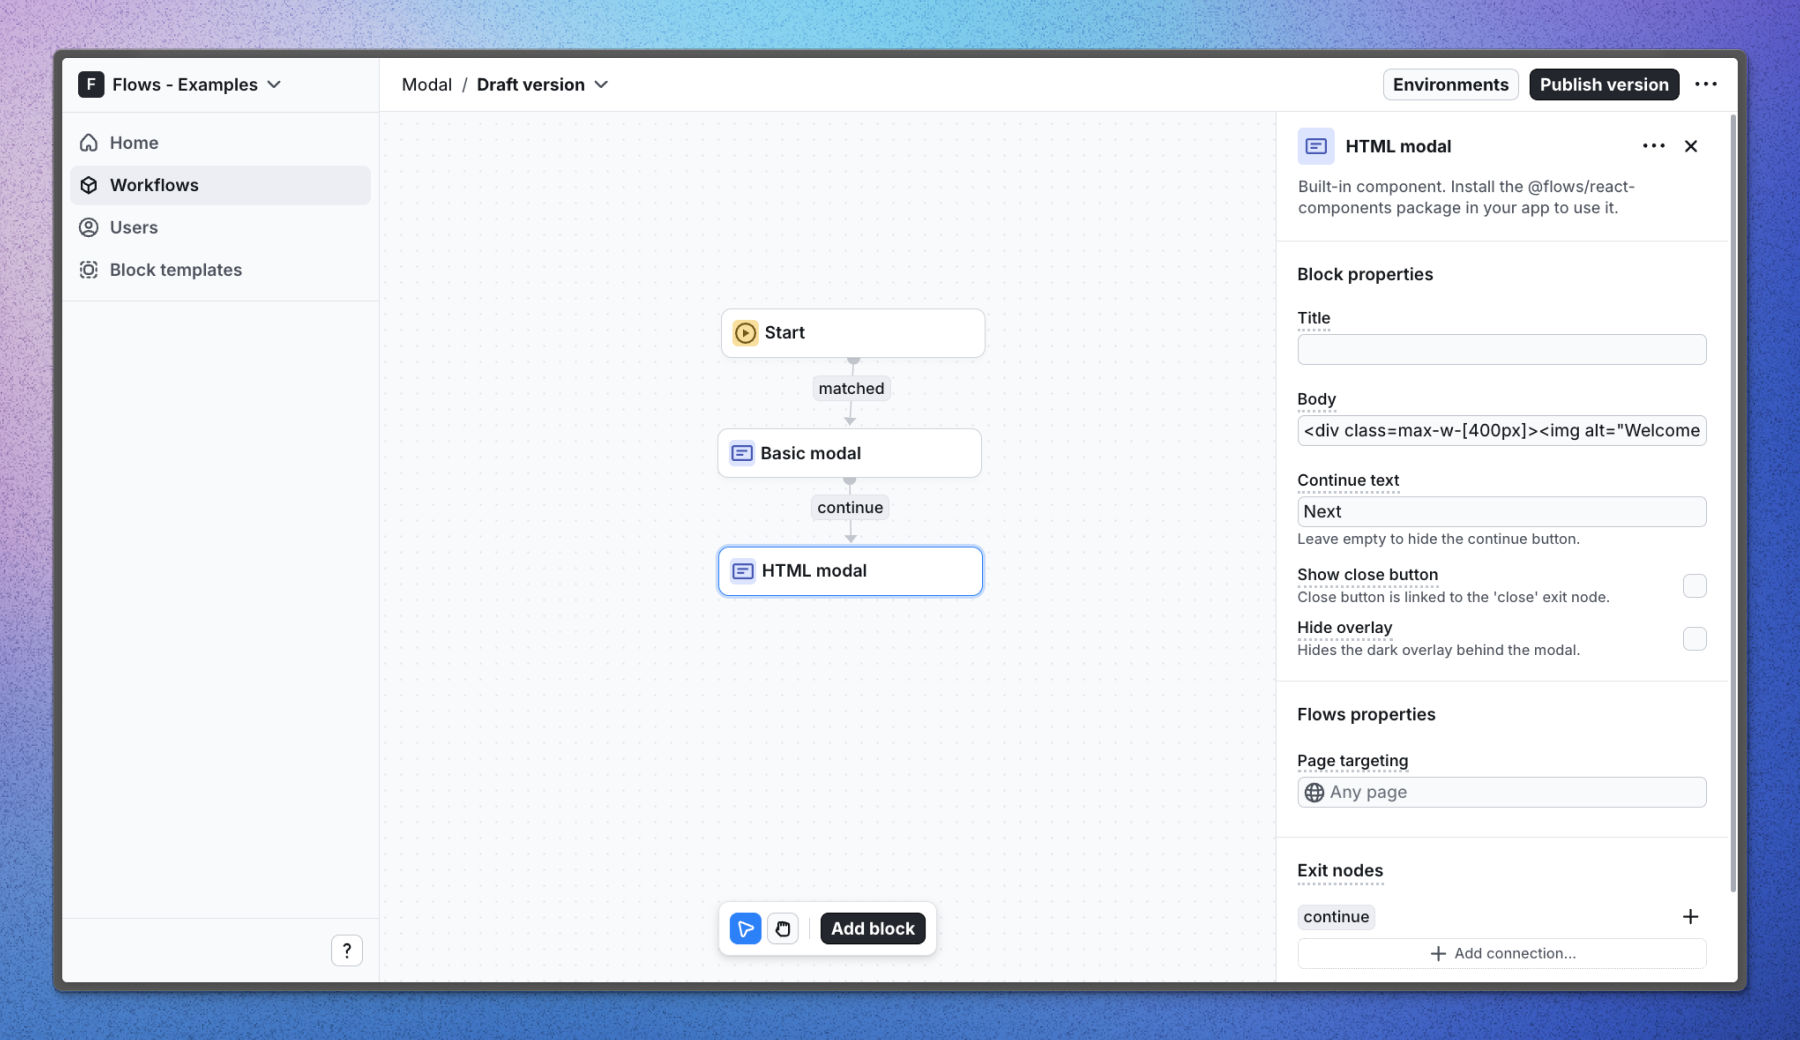
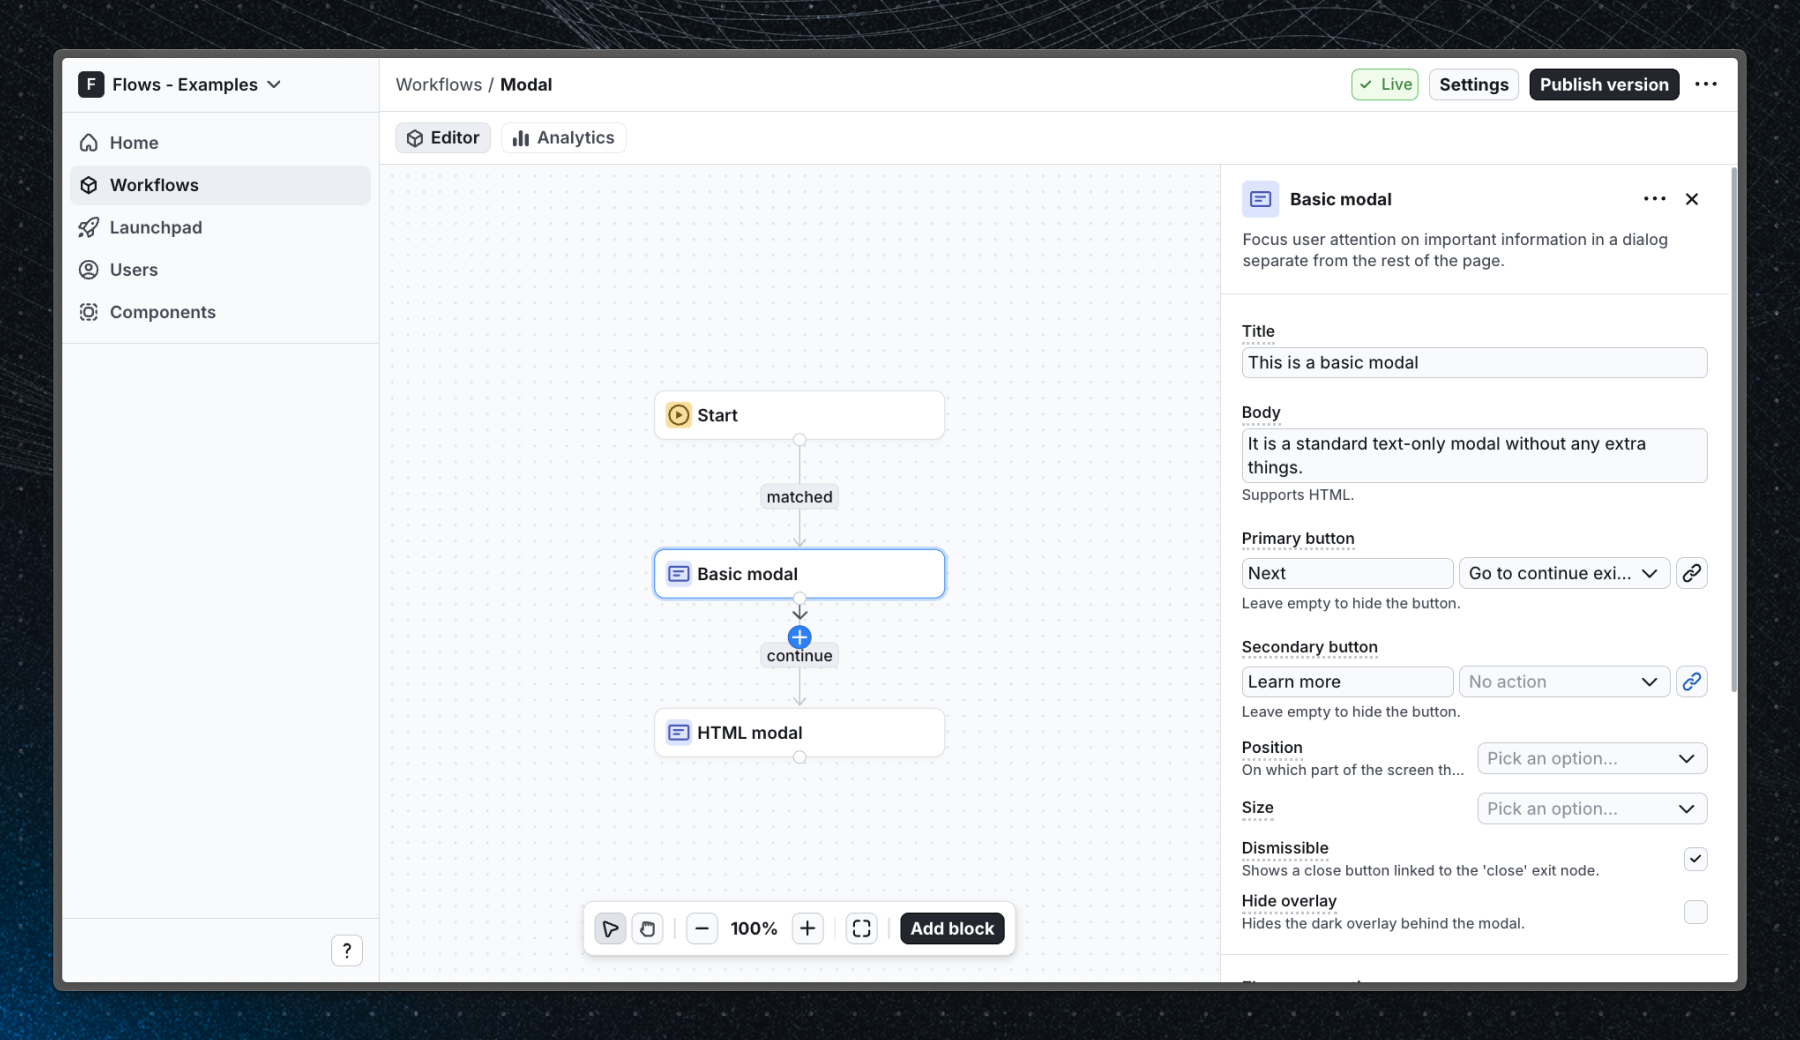
feat(web, examples): update modal example to use new UI components (#1730)
* feat(web, examples): update modal example to use new UI components

* add stříška

diff --git a/examples/modal/src/app/providers.tsx b/examples/modal/src/app/providers.tsx
@@ -37,7 +37,7 @@ export const Providers: FC<Props> = ({ children }) => {
           components={{ ...components }}
           tourComponents={{ ...tourComponents }}
           userProperties={{
-            example: "modal",
+            example: "modal-v2",
           }}
         >
           {content}
